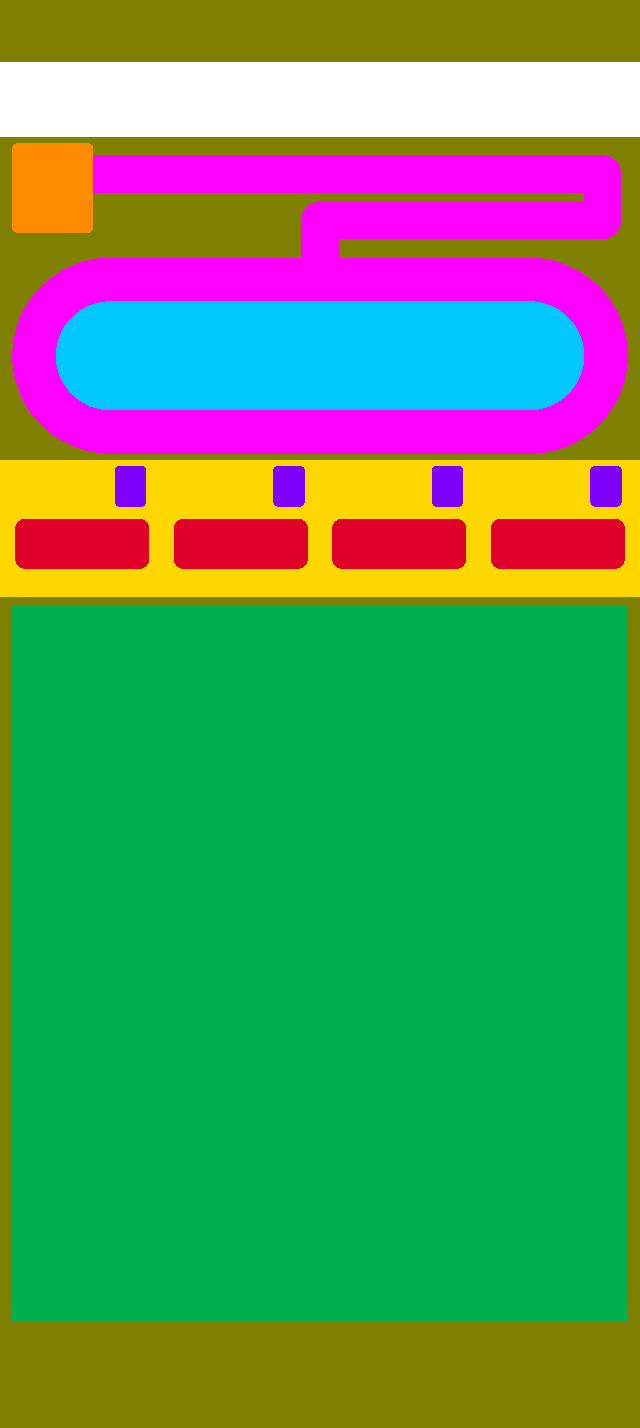
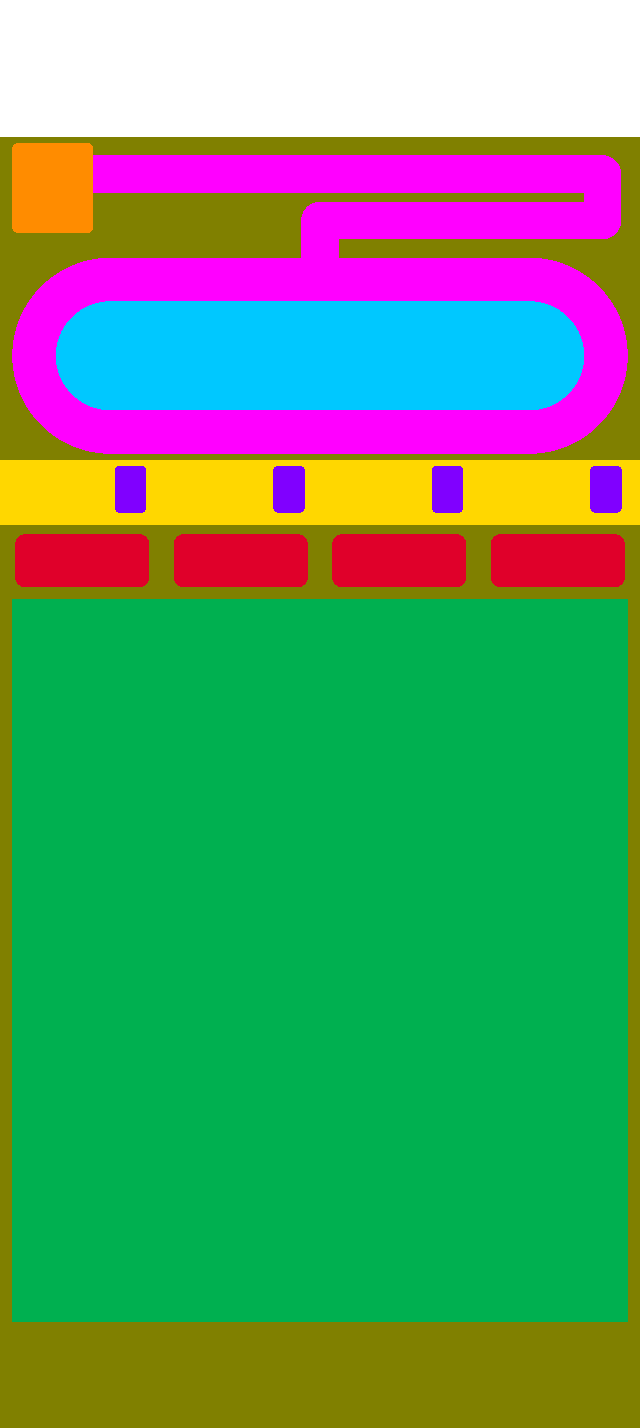
Art pipeline paused: backdrop v3, zone-fit scorer, top-only guide

Changed region(s): [[0.0, 0.3389, 1.0, 0.4314], [0.0, 0.0, 1.0, 0.0616]]

diff --git a/tools/art/fit_zones.py b/tools/art/fit_zones.py
@@ -1,0 +1,80 @@
+#!/usr/bin/env python3
+"""Measure how well a painted backdrop follows the layout, using Gemini's traced zone map.
+
+Usage: python3 tools/art/fit_zones.py <painting> <zone-map> [layout-id]
+Prints per-zone IoU against the guide and each zone's measured bounding box in dp, and writes
+<painting stem>_fit.png: the painting with the guide's zone outlines (thin) and the traced outlines (thick) on top.
+"""
+import json
+import sys
+from pathlib import Path
+
+import numpy as np
+from PIL import Image, ImageFilter
+
+sys.path.insert(0, str(Path(__file__).resolve().parent))
+import zone_guide  # noqa: E402
+
+ROOT = Path(__file__).resolve().parents[2]
+NAMES = list(zone_guide.COLOURS)
+PALETTE = np.array([zone_guide.COLOURS[n] for n in NAMES], dtype=np.float32)
+
+
+def classify(img):
+    """Label every pixel with the nearest zone colour (also maps the old grey scenery label to scenery)."""
+    a = np.asarray(img.convert("RGB"), dtype=np.float32)
+    pal = np.vstack([PALETTE, [[200, 200, 200]]])
+    d = ((a[:, :, None, :] - pal[None, None, :, :]) ** 2).sum(-1)
+    lab = d.argmin(-1)
+    lab[lab == len(NAMES)] = NAMES.index("scenery")
+    # JPEG edges leave stray mislabelled pixels; a mode filter removes them.
+    return np.asarray(Image.fromarray(lab.astype(np.uint8)).filter(ImageFilter.ModeFilter(9)))
+
+
+def outline(mask):
+    m = Image.fromarray((mask * 255).astype(np.uint8))
+    return np.asarray(m.filter(ImageFilter.FIND_EDGES)) > 0
+
+
+def main(argv):
+    painting, zones = Path(argv[1]), Path(argv[2])
+    lid = argv[3] if len(argv) > 3 else "default"
+    layout = json.loads((ROOT / "art" / "layouts" / f"{lid}.json").read_text(encoding="utf-8"))
+    pimg = Image.open(painting).convert("RGB")
+    size = pimg.size
+    traced = classify(Image.open(zones).resize(size, Image.NEAREST))
+    guide = classify(zone_guide.render(layout).resize(size, Image.NEAREST))
+    s = size[0] / layout["screen_dp"][0]
+    print(f"{'zone':12} {'IoU':>5}   measured bbox (dp)          guide bbox (dp)")
+    ious = []
+    for k, n in enumerate(NAMES):
+        if n == "scenery":
+            continue
+        t, g = traced == k, guide == k
+        if not g.any():
+            continue
+        iou = (t & g).sum() / max(1, (t | g).sum())
+        ious.append(iou)
+
+        def bbox(m):
+            ys, xs = np.nonzero(m)
+            return "-" if len(xs) == 0 else f"[{xs.min()/s:5.0f},{ys.min()/s:5.0f},{xs.max()/s:5.0f},{ys.max()/s:5.0f}]"
+        print(f"{n:12} {iou:5.2f}   {bbox(t):28} {bbox(g)}")
+    print(f"mean IoU {np.mean(ious):.2f}")
+
+    out = np.asarray(pimg).copy()
+    for k, n in enumerate(NAMES):
+        if n == "scenery":
+            continue
+        col = zone_guide.COLOURS[n]
+        out[outline(guide == k)] = (0, 0, 0)
+        t = outline(traced == k)
+        t = np.asarray(Image.fromarray((t * 255).astype(np.uint8)).filter(ImageFilter.MaxFilter(5))) > 0
+        out[t] = col
+    dst = painting.with_name(painting.stem + "_fit.png")
+    Image.fromarray(out).save(dst)
+    print(dst)
+
+
+if __name__ == "__main__":
+    main(sys.argv)

diff --git a/tools/art/zone_guide.py b/tools/art/zone_guide.py
@@ -39,6 +39,8 @@ def render(layout):
         return [round(v * s) for v in r]
 
     d.rectangle(box(z["top_bar"]["rect"]), fill=COLOURS["top_bar"])
+    if "status_bar" in z:
+        d.rectangle(box(z["status_bar"]["rect"]), fill=COLOURS["top_bar"])
     d.rectangle(box(z["counter"]["rect"]), fill=COLOURS["counter"])
     for r in z["benches"]["rects"]:
         d.rounded_rectangle(box(r), radius=round(6 * s), fill=COLOURS["bench"])
@@ -77,6 +79,13 @@ def main(argv):
     out.mkdir(parents=True, exist_ok=True)
     img.save(out / f"{lid}_zones.png")
     img.resize((img.width // 2, img.height // 2), Image.NEAREST).save(out / f"{lid}_zones_small.png")
+    # The painted part only: everything above the board. The board, the floor around it and the bottom margin
+    # are assembled by the app from tiled textures (v1-v3 kept inventing a second room in that big empty area).
+    if "paint_region" in layout:
+        s = layout["screen_px"][0] / layout["screen_dp"][0]
+        x0, y0, x1, y1 = [round(v * s) for v in layout["paint_region"]]
+        top = img.crop((x0, y0, x1, y1))
+        top.save(out / f"{lid}_zones_top.png")
     print(out / f"{lid}_zones.png")
 
 

diff --git a/art/prompts/manual/sushi_backdrop.md b/art/prompts/manual/sushi_backdrop.md
@@ -10,7 +10,33 @@ benches and ticket stands kept their red and purple label colours. v2 drops the 
 board), states that zone colours are labels only, and asks for a flat top-down view. After v2 the scenery
 label changed from grey to olive: Gemini left the grey areas unpainted in both runs, reading grey as empty.
 
-## Prompt 1: paint the backdrop
+## Status (paused 2026-10-11)
+
+v3 (edit of v2 against the v3 layout) kept v2's invented second room and still left the olive edges unpainted.
+Next idea, not yet tried: paint only the part above the board (`art/guides/default_zones_top.png`, from
+`paint_region` in the layout) and let the app fill the board area from the kit textures. Score each attempt with
+`python3 tools/art/fit_zones.py <painting> <zone-map>` (v2 baseline: mean IoU 0.47).
+
+## Prompt 1: paint the backdrop (v3: edit the previous attempt)
+
+Attach for v3: `art/guides/default_zones_small.png` (image 1) and `art/raw/sushi/backdrop_v2.jpeg` (image 2).
+
+Image 1 is a colour-coded layout map of a portrait mobile game screen. Image 2 is an earlier painting of this screen: keep its art style, its materials and its look (pale wood, cream paper screens, thick dark brown outlines, flat 2D, soft cel shading). Repaint it so that its layout matches image 1 exactly, zone by zone, with the same position, size and shape for every zone.
+
+The colours in image 1 are only labels. None of these label colours may appear in the painting:
+- Magenta: empty conveyor belts of pale wooden slats with a light wooden rim, exactly along the magenta shapes: one thin incoming belt that leaves the kitchen hatch, runs right, turns, runs back left and drops into the top of the loop, and one closed loop. No plates.
+- Orange: the kitchen hatch with a short cream noren curtain, exactly in the orange square.
+- Cyan: inside of the loop, a plain light wooden surface.
+- Yellow: a light wooden counter strip running the full width of the screen.
+- Purple: four small empty wooden ticket stands standing on that counter.
+- Red: four short empty light-wood benches, directly below the counter.
+- Green: a plain, flat, pale wooden floor that starts directly under the benches and fills the whole green area to its edges. Nothing between the benches and the floor: no wall, no window, no lanterns, no second room. No frame, no border, no grid, no objects.
+- White: a plain pale cream wall with nothing on it.
+- Olive: quiet background scenery around the edges of the screen (cream paper screens, light natural wood, a few small paper lanterns). Olive areas must be painted, never left plain or grey.
+
+Flat view straight down like a floor plan, no perspective: rectangles stay rectangles. Same portrait aspect ratio as image 1. No plates, no food, no animals, no cards, no buttons, no text.
+
+## Previous Prompt 1 (v2)
 
 Image 1 is a colour-coded layout map of a portrait mobile game screen. Image 2 shows the art style and setting. Paint the empty background scene for this game screen in exactly the art style of image 2: a cozy Japanese sushi bar for cute animals, flat 2D illustration, soft cel shading, thick dark brown outlines, warm pastel palette.
 
@@ -34,6 +60,6 @@ Same portrait aspect ratio as image 1. No plates, no food, no animals, no ticket
 Now convert the image you just made into a flat colour map with exactly the same layout as image 1. Fill every area with one solid colour, no shading, no outlines, no texture: conveyor belts magenta (#FF00FF), kitchen hatch orange (#FF8C00), inside of the loop cyan (#00C8FF), counter yellow (#FFD700), benches red (#E0002A), ticket stands purple (#8000FF), the plain floor area at the bottom green (#00B050), the plain wall at the top white (#FFFFFF), and everything else olive (#808000). Trace the shapes exactly where they are in your painting, even where they differ from image 1.
 
 ## Save as
-- Painting: `art/raw/sushi/backdrop_v2.jpeg`
-- Zone map from prompt 2: `art/raw/sushi/backdrop_v2_zones.jpeg`
+- Painting: `art/raw/sushi/backdrop_v3.jpeg`
+- Zone map from prompt 2: `art/raw/sushi/backdrop_v3_zones.jpeg`
 (or just leave them in ~/Downloads and tell me)
